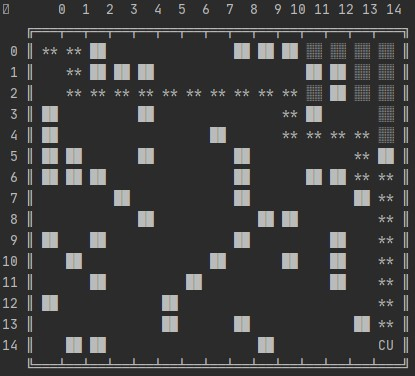
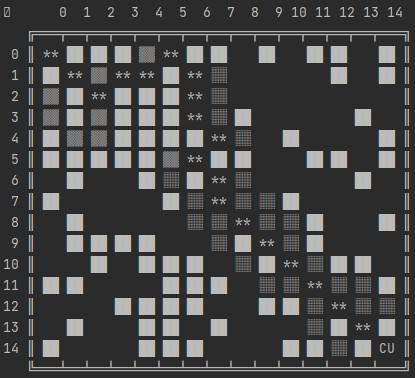
update screenshot

diff --git a/README.md b/README.md
@@ -1,6 +1,18 @@
 # A-Star-Path-Finding
 A start path-finding algo. implemented in Python, not really optimized and still has errors!
 
+# Nodes type
+State | background   
+------|-------------
+Normal |   
+Blocked | █████████
+Visited | ░░░░░░░░░  
+Highlighted | ▒▒▒▒▒▒▒▒▒  
+Path | ****************  
+Current | CU  
+Start | ST  
+Goal | GO  
+
 ## Execution
 simpley just run `Engine.py` 
 
